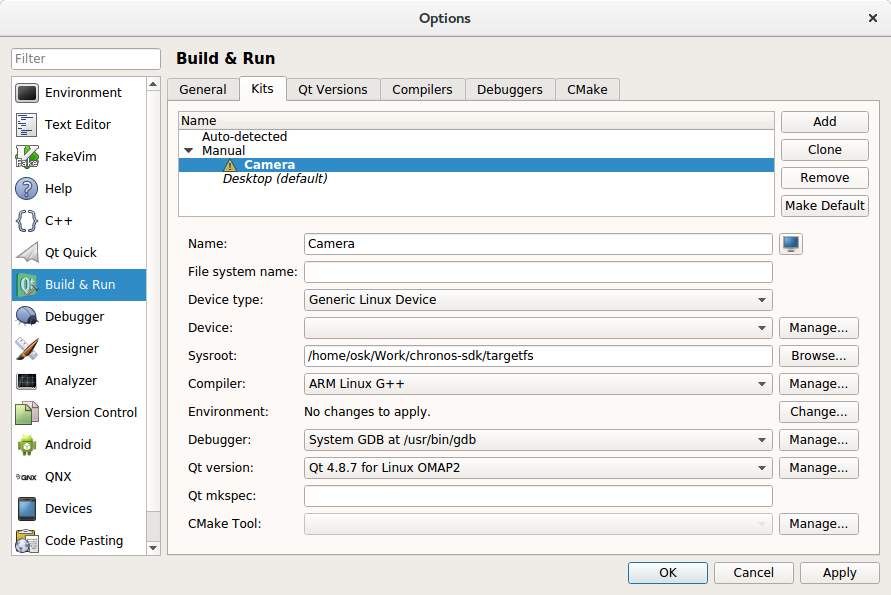
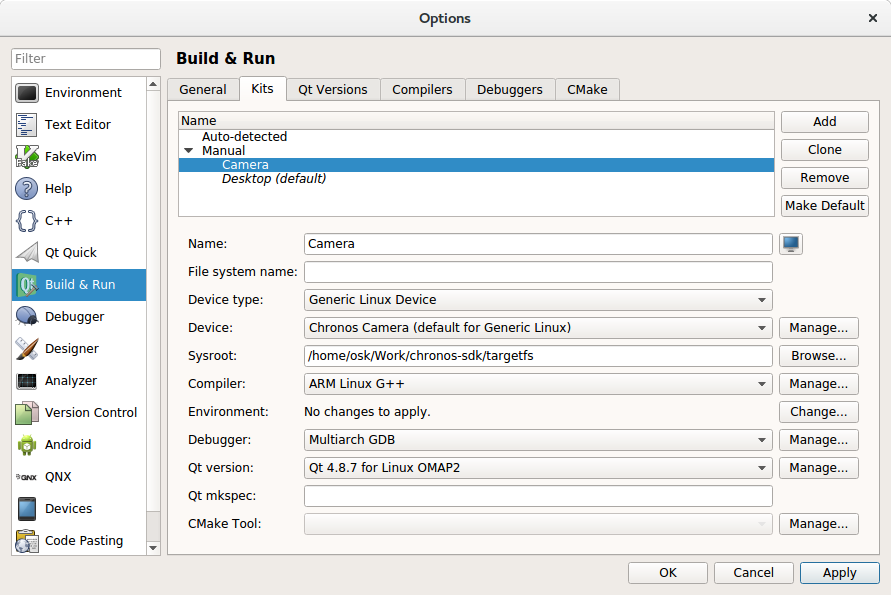
Update README with instructions to set up the debugging environment.

Changed region(s): [[0.3333, 0.5445, 0.6364, 0.5748], [0.3333, 0.7261, 0.5455, 0.7563], [0.2424, 0.2723, 0.3636, 0.3328]]

diff --git a/README.md b/README.md
@@ -1,17 +1,15 @@
 # Prerequisites
-The following packages were must be installed prior to building the camera
-application.
+The recommended development environment for the Chronos camera application is
+supported on Ubuntu 16.04 LTS. On a base Ubuntu installations, we will also need
+to add the following packages:
 
 ```
-    sudo apt-get install qtcreator gcc-arm-linux-gnueabi g++-arm-linux-gnueabi
+    sudo apt-get install qtcreator gcc-arm-linux-gnueabi g++-arm-linux-gnueabi gdb-multiarch
 ```
 
-The above works on Ubuntu 16.04 LTS, newer versions of Ubuntu may require a different compiler version. In this case, use:
-
-```
-	sudo apt-get install qtcreator gcc-5-arm-linux-gnueabi g++-5-arm-linux-gnueabi
-
-```
+Newer version of Ubuntu can also be used to build the camera application, but the instructions
+may need to be modified to use GCC version 5 or older. This is usually done by substituting
+`gcc-5` in place of `gcc`
 
 # Building and Installing QT
 The Chronos camera application is built using QT version 4.8, and must
@@ -54,37 +52,6 @@ load(qt_config)
 EOF
 ```
 
-If you installed the gcc-5 / g++-5 compilers, use the following qmake.conf instead of that shown above:
-
-```bash
-#
-# qmake configuration for building with arm-linux-gnueabi-g++
-#
-
-include(../../common/linux.conf)
-include(../../common/gcc-base-unix.conf)
-include(../../common/g++-unix.conf)
-include(../../common/qws.conf)
-
-# Compiler flags for OMAP2
-QMAKE_CFLAGS_RELEASE =   -O3 -march=armv7-a -mtune=cortex-a8 -mfpu=neon -mfloat-abi=softfp
-QMAKE_CXXFLAGS_RELEASE = -O3 -march=armv7-a -mtune=cortex-a8 -mfpu=neon -mfloat-abi=softfp
-
-# modifications to g++.conf
-QMAKE_CC                = arm-linux-gnueabi-gcc-5
-QMAKE_CXX               = arm-linux-gnueabi-g++-5
-QMAKE_LINK              = arm-linux-gnueabi-g++-5
-QMAKE_LINK_SHLIB        = arm-linux-gnueabi-g++-5
-
-# modifications to linux.conf
-QMAKE_AR                = arm-linux-gnueabi-gcc-ar-5 cqs
-QMAKE_OBJCOPY           = arm-linux-gnueabi-objcopy
-QMAKE_STRIP             = arm-linux-gnueabi-strip
-QMAKE_LIBS+= -lts
-
-load(qt_config)
-```
-
 The following shell script demonstrates the configuration provided to QT
 when used with the Chronos SDK. This assumes you have extracted the QT 
 Everywhere package to ~/Work/, and have placed your targetfs in
@@ -115,12 +82,12 @@ make
 make install
 ```
 
-# Setting up QT Creator
+# ![qt-icon](/doc/qt_icon.png) Setting up QT Creator
 The first step to setting up QT creator to build for the Chronos, is to
 add the ARM cross compiler to QT. Navigate to `Tools -> Options`, and select
 `Build & Run` on the left column, then add a new compiler under the
 `Compilers` tab. The path of your G++ and GCC compiler can be found from
-runnin the command `which arm-linux-gnueabi-gcc` from a console.
+running the command `which arm-linux-gnueabi-gcc` from a console.
 
 ![QT Creator compiler configuration](/doc/qtcreator_compilers.png)
 
@@ -132,6 +99,27 @@ configuring QT.
 
 ![QT Creator QT version configuration](/doc/qtcreator_qtversion.png)
 
+This step is optional, but to add debugging support, select the `Debuggers`
+tab and add the `gdb-multiarch` cross debugger to QT creator. You can find
+the path of the debugger by running the command `which gdb-multiarch` from
+a console.
+
+![QT Creator debugger configuration](/doc/qtcreator_debuggers.png)
+
+To add the Chronos camera as a debugging target, select `Devices` on the
+left column and click the `Add` button to add a new target. Select the
+`Generic Linux Device` and click on `Start Wizard`. You will be prompted
+for the connection details, which should be set as follows:
+ * Name to identify this configuration: Chronos Camera
+ * Host name or IP address: 192.168.12.1
+ * Username to log into the device: root
+ * Authentication type: Password
+ * User's Password: Your Awesome Super Secret Root Password On the Camera
+
+![Chronos SSH login and kill](/doc/qtcreator_device_wizard.png)
+
+Click on `Next` and `Finish` to add the new debugging target to QT creator.
+
 Finally, a kit must be selected for the Chronos camera, which uses the
 compiler and QT version that we set up earlier. Select the `Kits` tab
 to add a new kit for the camera. The following settings are required:
@@ -140,9 +128,13 @@ to add a new kit for the camera. The following settings are required:
 * Compiler: The G++ cross compiler we set up earlier.
 * Qt Version: The cross compiled QT 4.8.7 that we set up earlier.
 
+For debugging, you will also want to configure:
+* Device: The Chronos Camera debugging target we set up earlier.
+* Debugger: The Multiarch GDB debugger we set up earlier.
+
 ![QT Creator QT kit](/doc/qtcreator_kits.png)
 
-# Building the Camera Application
+# ![build-icon](/doc/build_icon.png) Building the Camera Application
 Open the Chronos camera application from by navigating to
 `File -> Open File or Project` and selecting the QT creator project
 file `src/camApp.pro`. If this is your first time opening the
@@ -155,3 +147,49 @@ Click on the  `Configure Project` button to select the kits, and then
 build the application by navigating to `Build -> Build Project "camApp"`
 or clicking on the hammer icon in the bottom left corner. When complete
 the application will be output as `build-camApp-Camera-Debug/camApp`
+
+# ![debug-icon](/doc/debug_icon.png) Debugging the Camera Application
+Debugging the camera application is done using a remote GDB connection to
+the Linux operating system running on the Chronos camera. The easiest way
+to establish this connection is to connect the Mini-USB on the Chronos to
+your Ubuntu machine and powering on the camera. When the camera has finished
+booting, it will appear as a USB network adapter with an IP address of
+192.168.12.1.
+
+There is no default password set on the camera, and until one has been set,
+the SSH login will accept any password that you type in. You can change
+the password by running the `passwd` command<sup>1</sup>.
+
+Before we can launch the Camera application through QT creator, we must first
+log into the Camera via SSH<sup>2</sup> and terminate the camApp process that started
+at boot. To do this, log into the camera from a console by running the
+command `ssh -oKexAlgorithms=+diffie-hellman-group1-sha1 root@192.168.12.1`.
+Once you are logged into the camera, run the command `killall camApp` to
+terminate the `camApp` process.
+
+![Chronos SSH login and kill](/doc/chronos_ssh_login.png)
+
+As a word of caution, the OMX video coprocessor on the DM8148 SoC is quite
+fragile and can become deadlocked if the camera application is not shutdown
+gracefully. This may occur if your camera application crashes during debug,
+or if you neglect to terminate the running `camApp` process before starting
+debug. When this occurs, your only recourse is to reboot the camera.
+
+To start the camera application with interactive debugging, navigate to the
+`Debug -> Start Debugging -> Start Debugging` menu, or click on the green
+Play button with a bug icon in the bottom left hand corner. This will upload
+the compiled `camApp` to the camera, and start it under a remote GDB server.
+When the debugger is running, the play button will be replaced by a blue
+Pause button with a bug icon.
+
+![Chronos SSH login and kill](/doc/qtcreator_live_debug.png)
+
+[1]: In a future update of the camera, SSH access will be disabled until a
+root password is configured via the camera application. This is intended
+to prevent an attacker from logging into an unconfigured camera via the
+Ethernet port.
+
+[2]: The SSH daemon on the camera does not support hash functions newer than
+SHA-1, which has been deprecated as of Ubuntu 16.04 LTS. Thus the SSH
+KexAlgorithms must be explicitly extended to successfully log in. This will
+be addressed in a future update before enabling Ethernet access.
